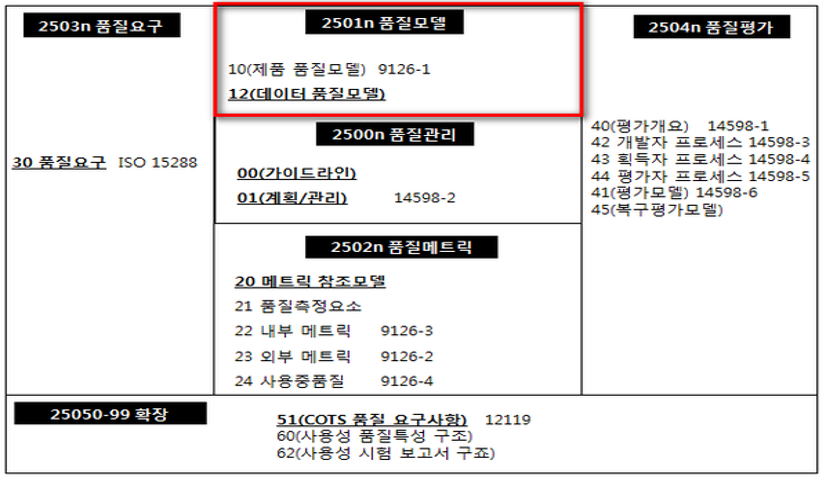
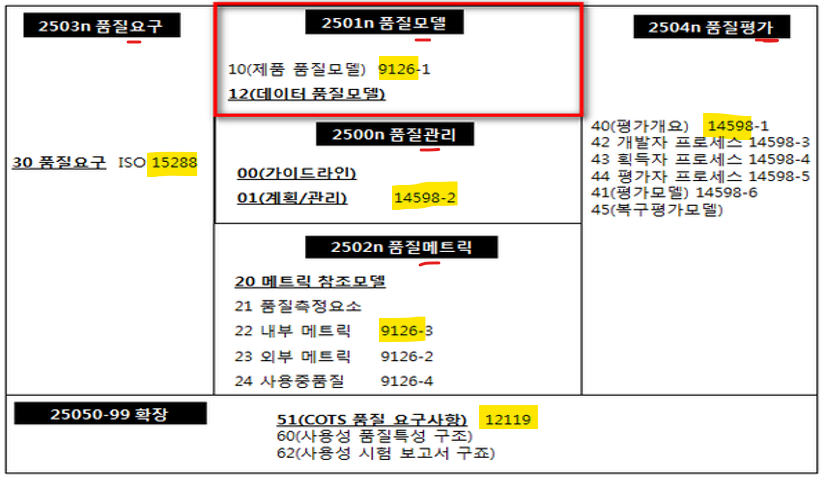
202106191057

diff --git a/note_swe.js b/note_swe.js
@@ -4175,7 +4175,7 @@ P 히스토그램 : Data 분포 <br/>\
 - ISO 12119 : 패키지 SW 품질 표준 <br/>\
 - ISO 14598 : SW 품질평가 표준 <br/>\
 - ISO 15288 : 시스템 엔지니어링 프로세스 표준 <br/><br/>\
-# 구성 : 관모메요가 <br/>\
+# 구성 (<font color = "red">관모메요가</font>) <br/>\
 - 2500n : 품질관리 - 25000(가이드라인), 250001(14598-2(계획/관리)) <br/>\
 - 2501n : 품질모델 - 25010(제품품질모델 9126-1), 25012(데이터 품질모델)<br/>\
 - 2502n : 품질측정 - 25020(매트릭 참조 모델), 25021(품질 측정요소), 25022(내부 매트릭 9126-3), 25023(외부 메트릭 9126-2), 25024(사용중 품질 9126-4)<br/>\
